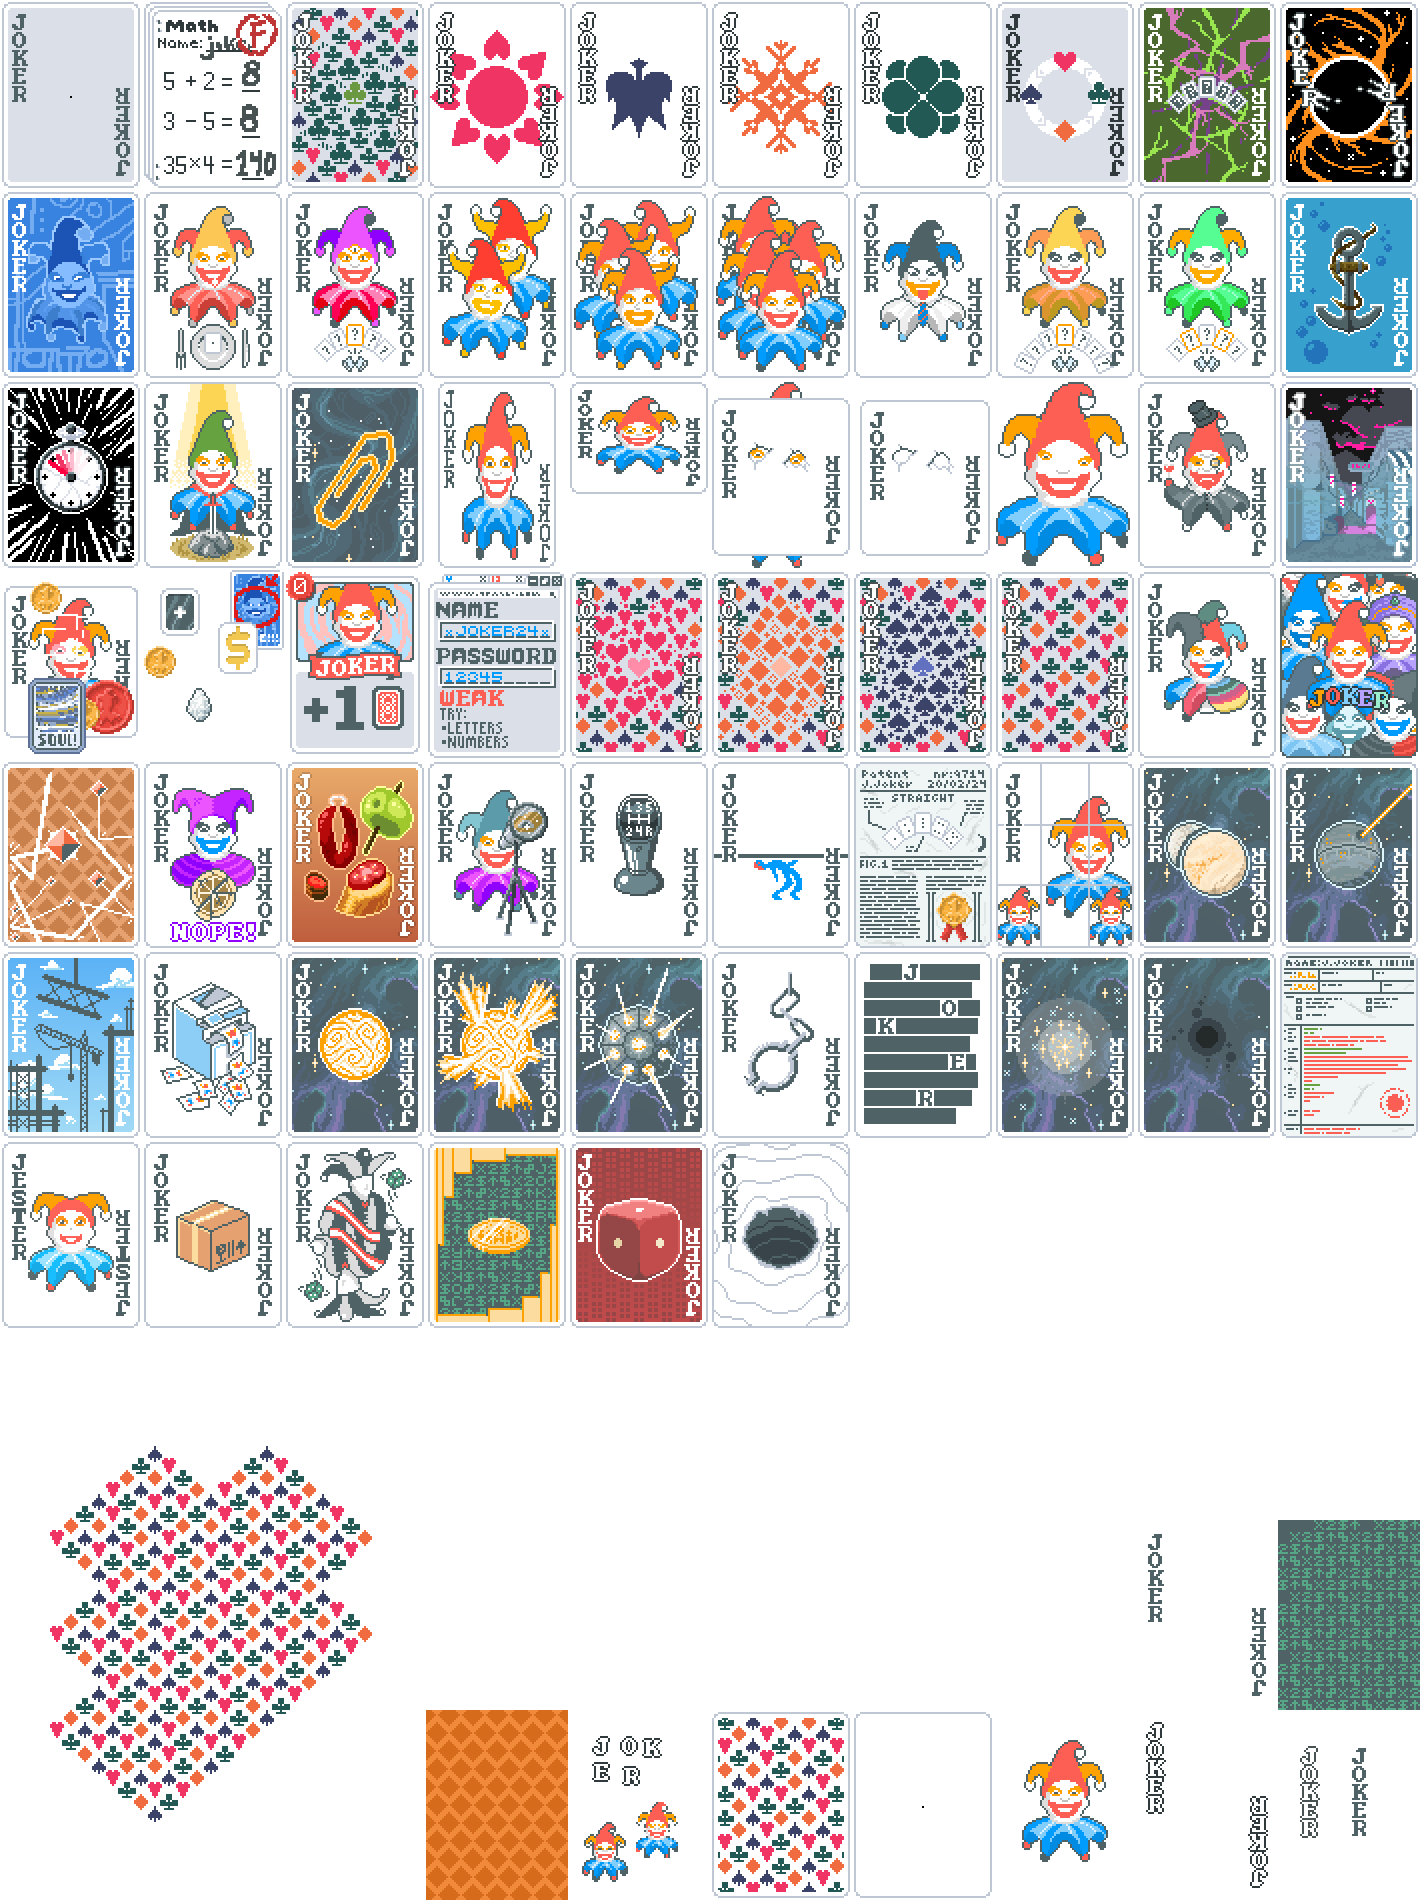
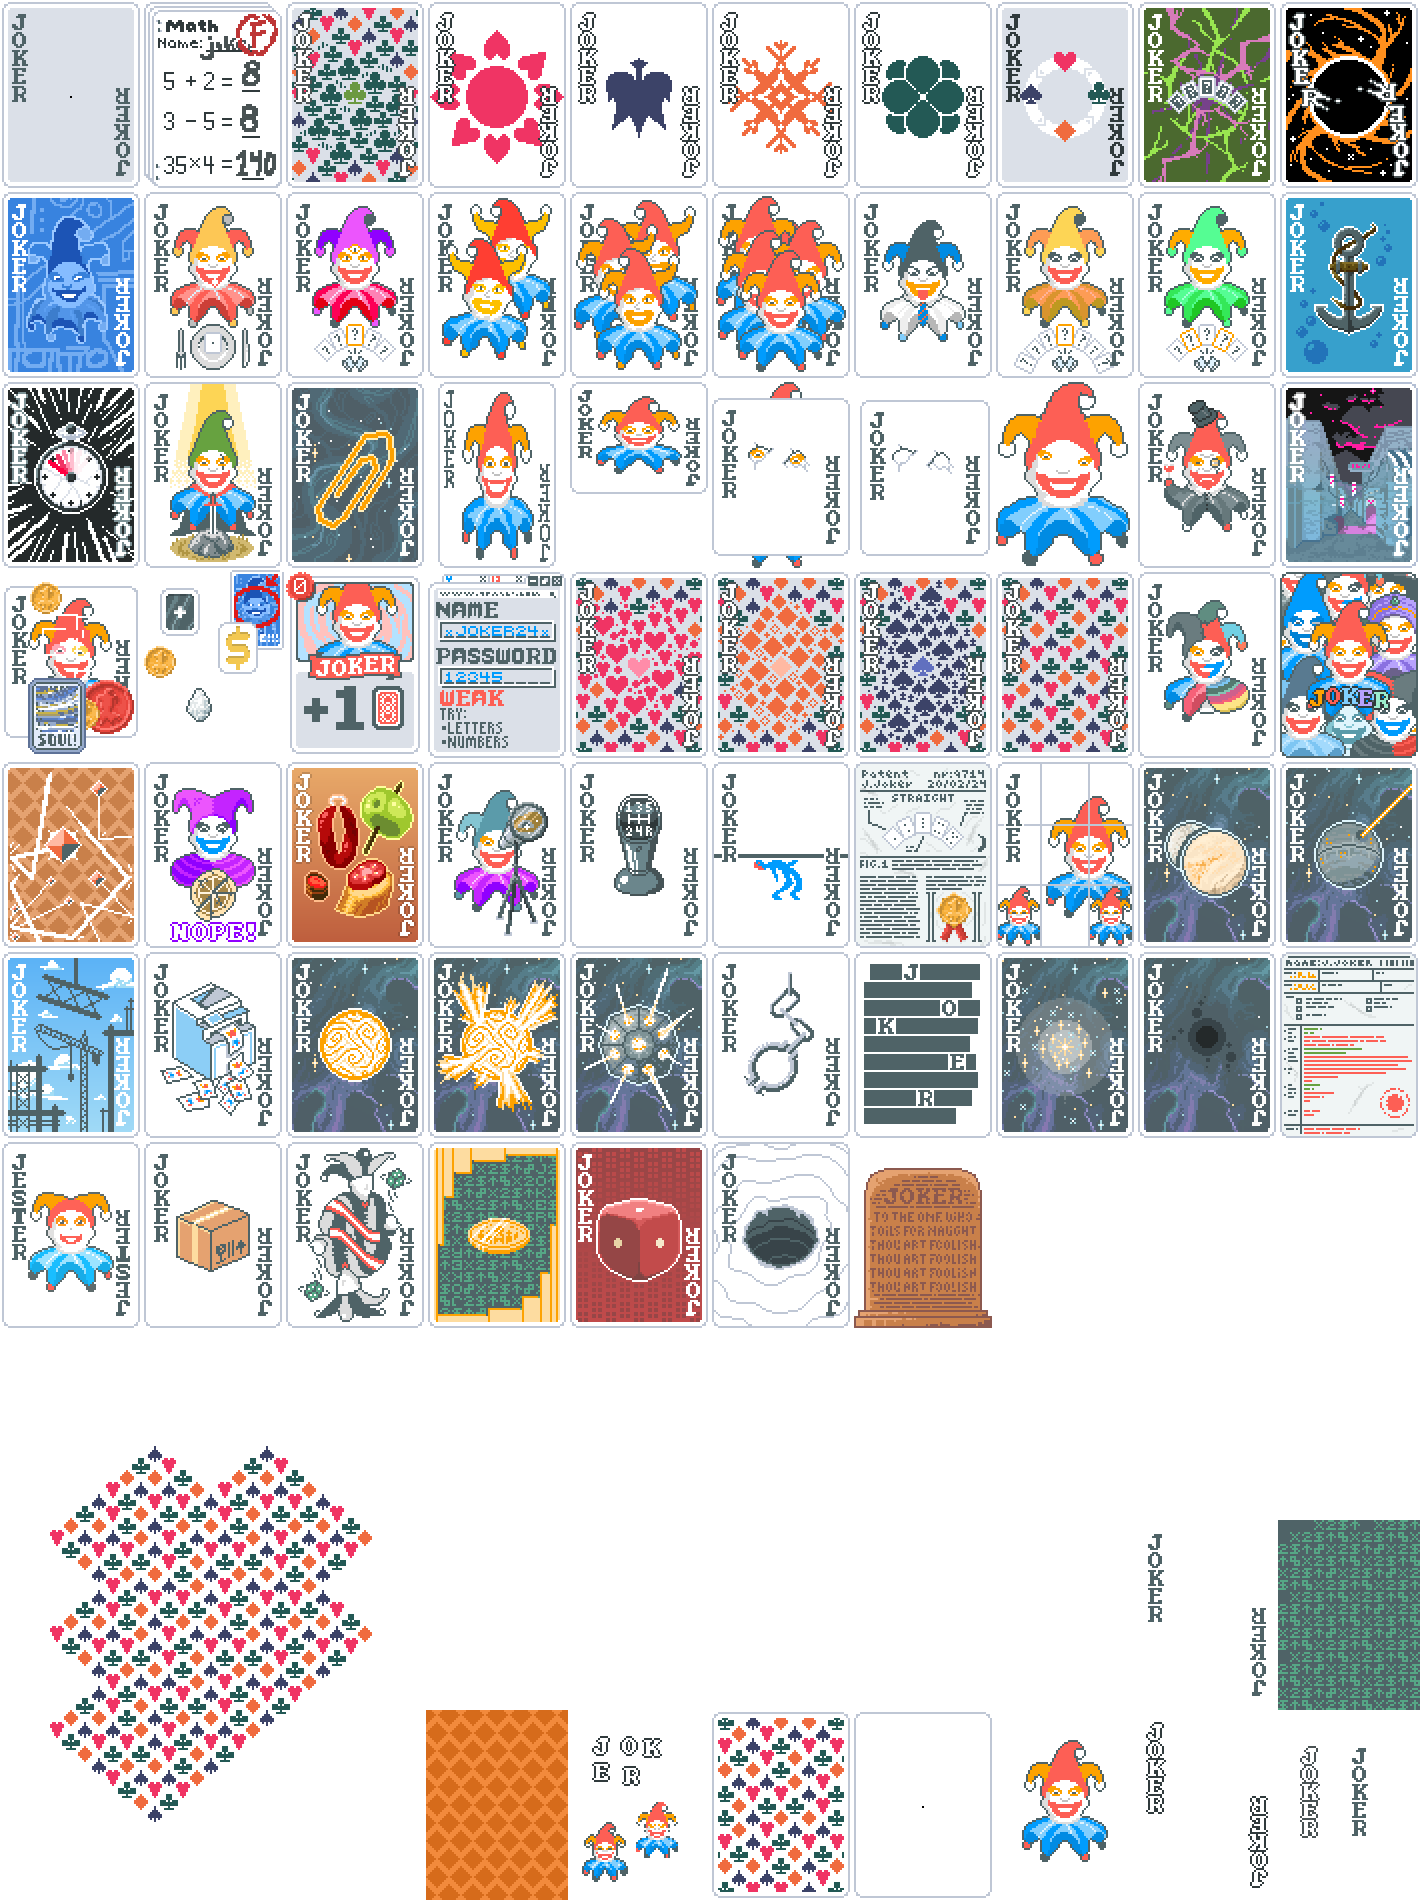
Add Stone Tablet

Changed region(s): [[0.5887, 0.59, 0.7127, 0.7142], [0.0, 0.1863, 0.093, 0.3105]]

diff --git a/web/addjokers.js b/web/addjokers.js
@@ -530,6 +530,14 @@ let jokers = [
     image_url: "img/j/call_of_the_void.png",
     rarity: "Rare"
   },
+  {
+    name: "Stone Tablet",
+    text: [
+      "{C:green}#1# in #2#{} chance to apply a {C:attention}Seal{} to scored {C:attention}Stone Cards{}",
+    ],
+    image_url: "img/j/stone_tablet.png",
+    rarity: "Uncommon"
+  },
 
   // {
   //   name: "",
